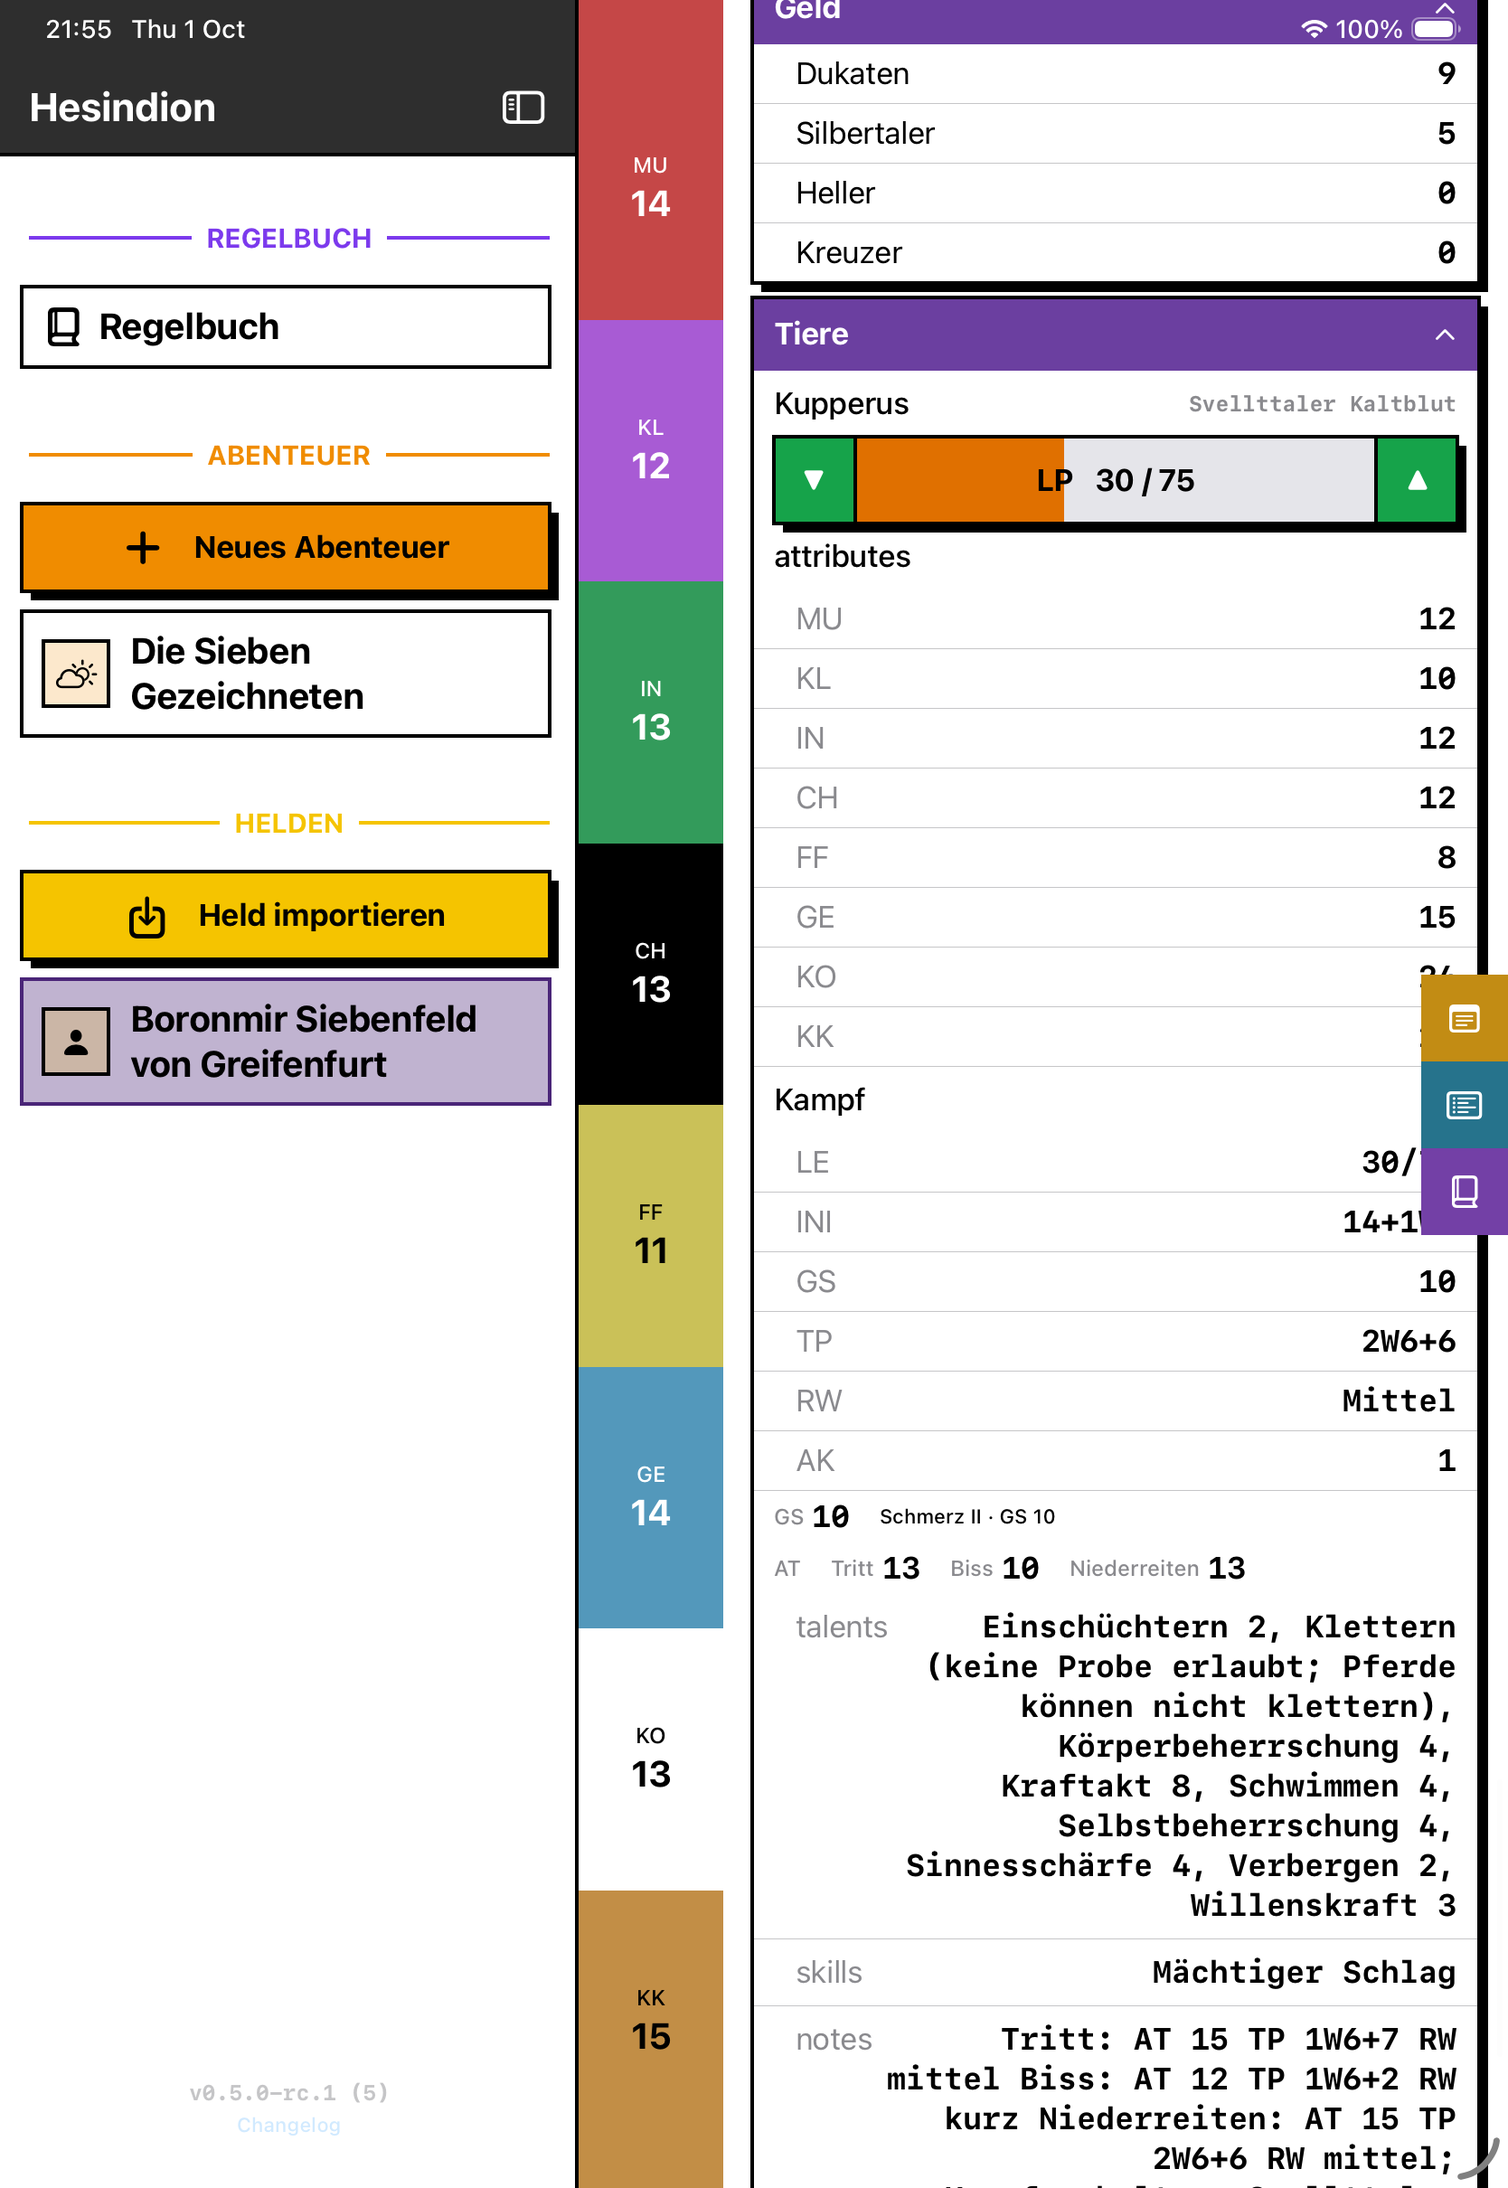
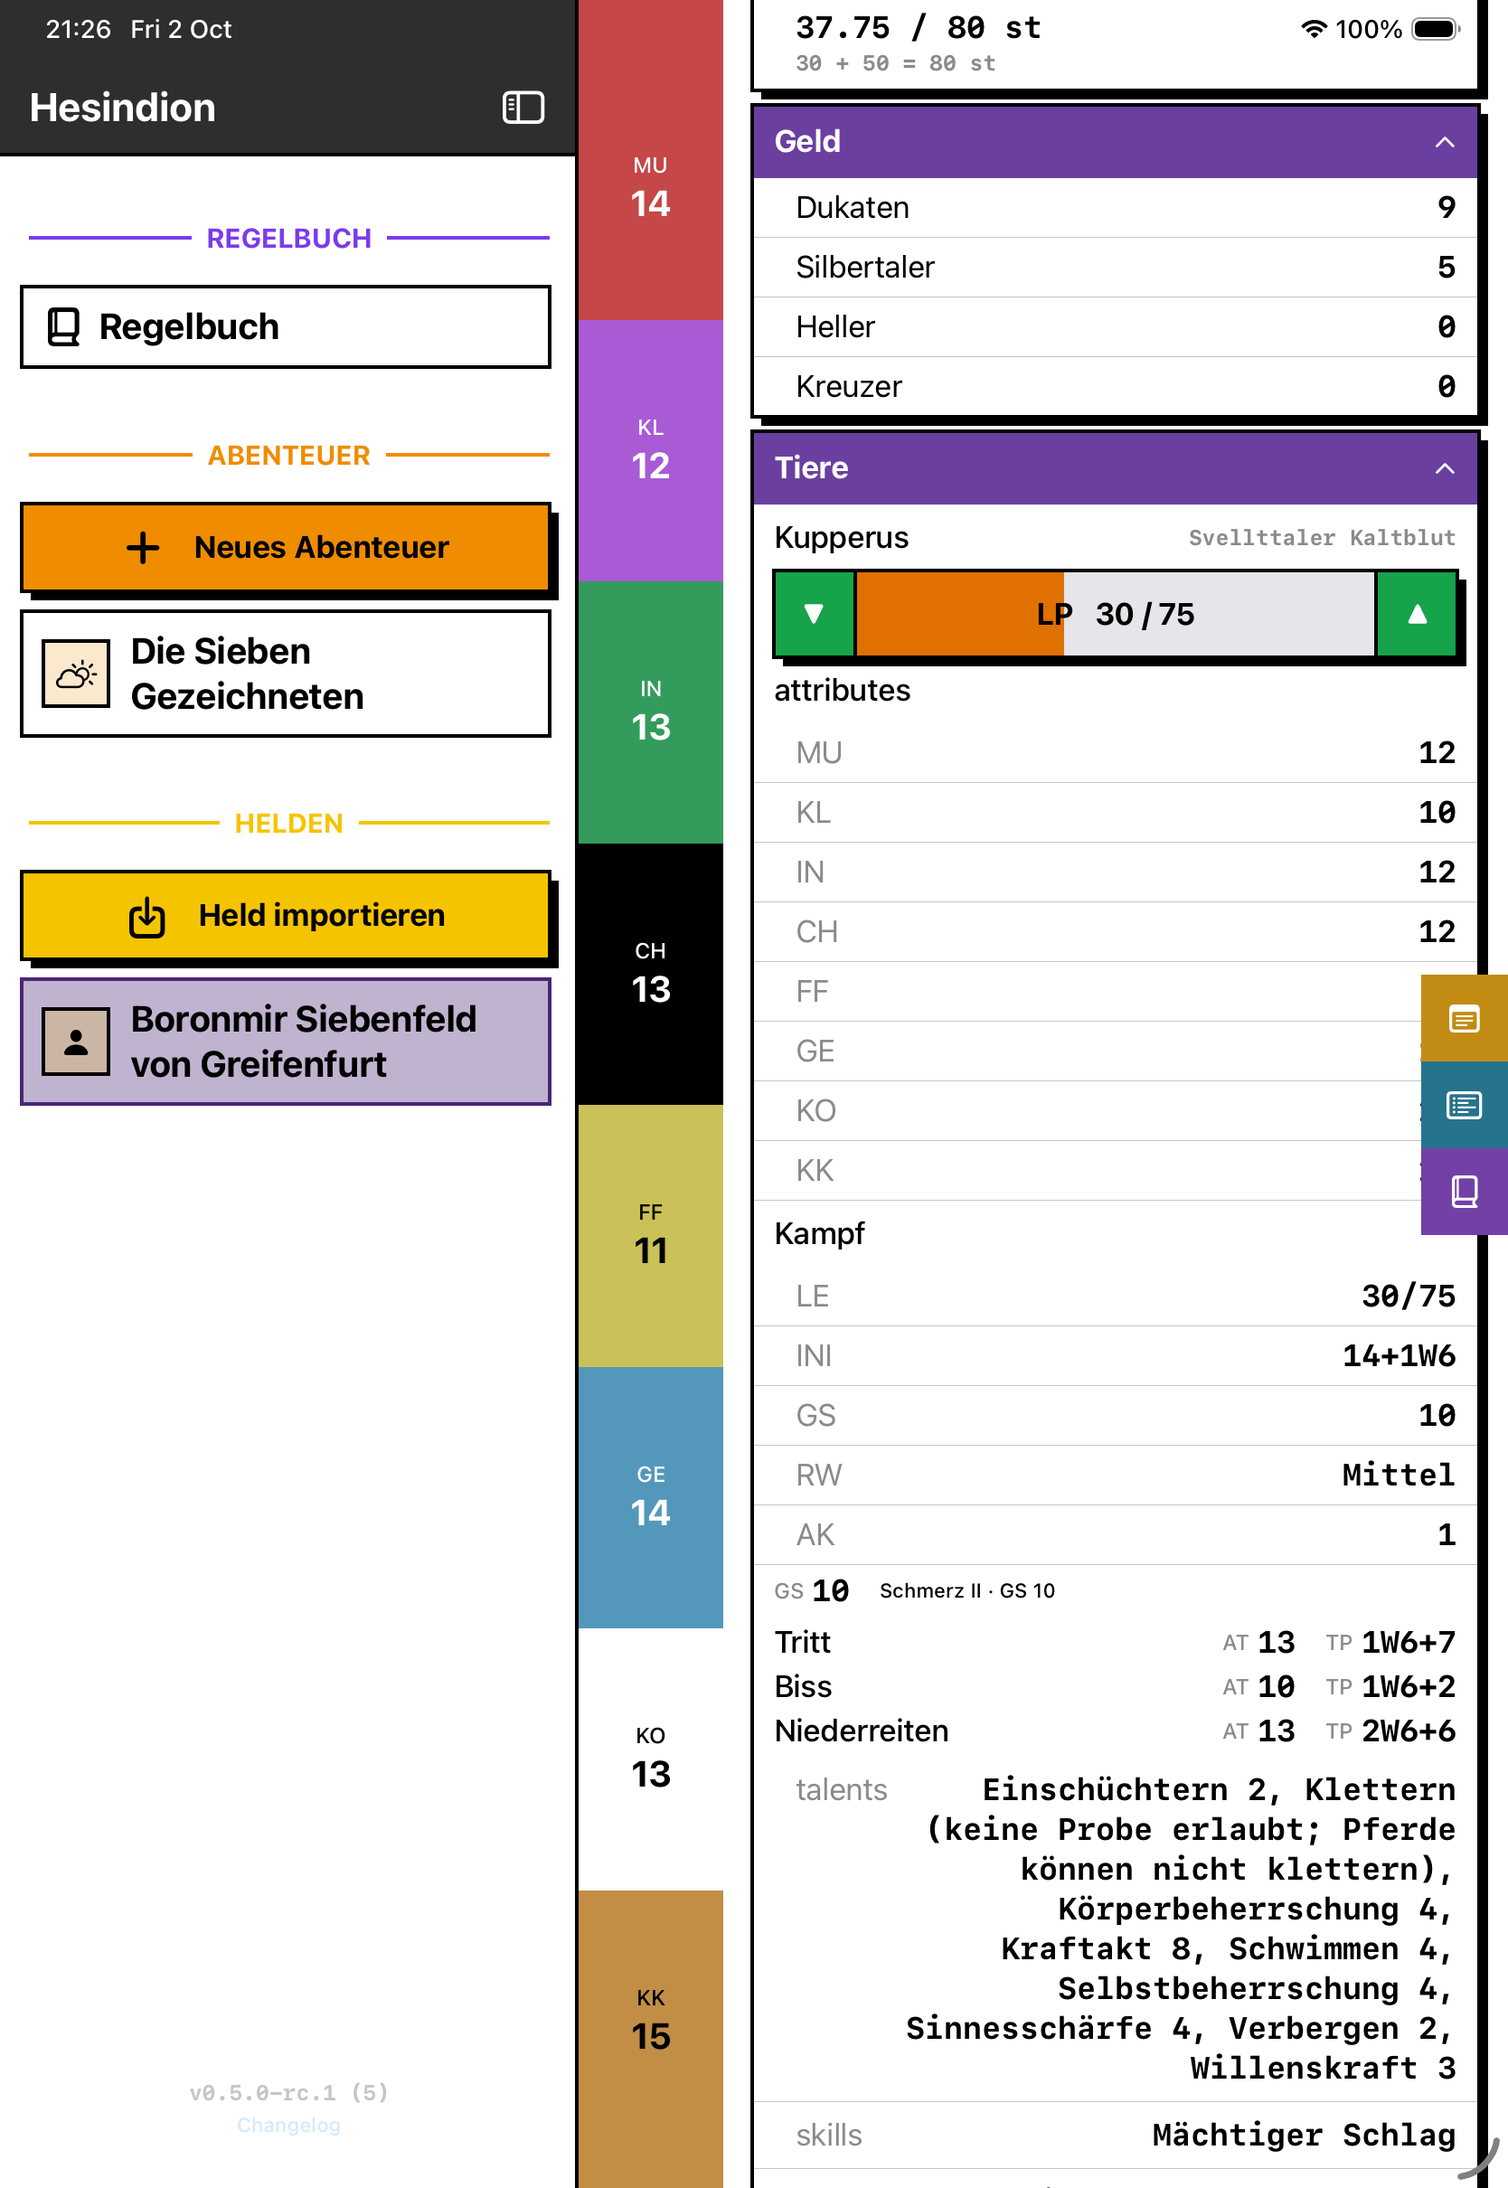
ui: one row per mount attack on the companion sheet, with its AT and TP (#52)
Owner request: see each attack's AT and TP together. The mount's general
"TP" cell goes, as its "AT" cell did.

Claude-Session: https://claude.ai/code/session_01XqN782arHHEks4nWYuMR9X

diff --git a/Hesindion/Views/HeroDetailView.swift b/Hesindion/Views/HeroDetailView.swift
@@ -1205,14 +1205,14 @@ struct HeroDetailView: View {
                         ])
 
                         let mountValues = pet === hero.mount ? MountValues.of(pet) : nil
-                        // Issue #52: the mount's AT is per attack, in its own row below.
+                        // Issue #52: the mount's AT and TP are per attack, one row each below.
                         let atPerAttack = mountValues != nil && !pet.attacks.isEmpty
                         SubfieldBlock(label: L("combat"), subfields: [
                             ("LE", "\(pet.currentLifeEnergy)/\(pet.lifeEnergy)"),
                             ("INI", pet.initiative),
                             ("GS", mountValues?.gs.result.map(String.init) ?? "\(pet.speed)"),
                             atPerAttack ? nil : ("AT", pet.attack),
-                            ("TP", pet.damage),
+                            atPerAttack ? nil : ("TP", pet.damage),
                             ("RW", pet.reach),
                             ("AK", "\(pet.actions)")
                         ].compactMap { $0 })
@@ -1274,23 +1274,31 @@ struct HeroDetailView: View {
         }
     }
 
-    /// The engine's AT for each of the mount's attacks, Schmerz included (issue #52); a tap opens
-    /// its breakdown, as GS and VW do.
+    /// One row per mount attack: its name, the engine's AT, Schmerz included, and its TP (issue #52).
+    /// A tap on the AT opens its breakdown, as GS and VW do.
     private func mountAttacks(_ pet: Pet, values: MountValues) -> some View {
-        HStack(spacing: 16) {
-            Text("AT").font(.dsaBody(.caption)).foregroundStyle(.secondary)
+        VStack(spacing: 4) {
             ForEach(pet.attacks, id: \.name) { attack in
-                if let at = values.at(with: attack.name) {
-                    Button {
-                        breakdown = BreakdownItem(title: "AT \(attack.name) \(pet.name)", value: at)
-                    } label: {
-                        companionValue(attack.name, at.result, id: "pet.at.value.\(pet.name).\(attack.name)")
+                HStack(spacing: 16) {
+                    Text(attack.name).font(.dsaBody(.body))
+                    Spacer()
+                    if let at = values.at(with: attack.name) {
+                        Button {
+                            breakdown = BreakdownItem(title: "AT \(attack.name) \(pet.name)", value: at)
+                        } label: {
+                            companionValue("AT", at.result, id: "pet.at.value.\(pet.name).\(attack.name)")
+                        }
+                        .buttonStyle(.plain)
+                        .accessibilityIdentifier("pet.at.\(pet.name).\(attack.name)")
                     }
-                    .buttonStyle(.plain)
-                    .accessibilityIdentifier("pet.at.\(pet.name).\(attack.name)")
+                    HStack(spacing: 4) {
+                        Text("TP").font(.dsaBody(.caption)).foregroundStyle(.secondary)
+                        Text(attack.damage)
+                            .font(.dsaMono(.body, emphasis: true))
+                            .accessibilityIdentifier("pet.tp.value.\(pet.name).\(attack.name)")
+                    }
                 }
             }
-            Spacer()
         }
         .padding(.horizontal, 12)
         .padding(.vertical, 4)

diff --git a/HesindionUITests/SheetBreakdownTests.swift b/HesindionUITests/SheetBreakdownTests.swift
@@ -189,8 +189,8 @@ final class SheetBreakdownTests: XCTestCase {
         XCTAssertTrue(app.staticTexts["Schmerz Kupperus"].exists, "The breakdown is not the mount's Schmerz")
     }
 
-    /// Issue #52: the companion sheet lists the mount's attacks with the engine's AT. At Schmerz II
-    /// the Tritt is 13, not the export's 15, and a tap opens its breakdown.
+    /// Issue #52: the companion sheet lists the mount's attacks, each with the engine's AT and its TP.
+    /// At Schmerz II the Tritt is 13, not the export's 15, and a tap opens its breakdown.
     @MainActor
     func testTappingTheMountsAttackOnTheSheetOpensItsBreakdown() throws {
         continueAfterFailure = false
@@ -199,6 +199,7 @@ final class SheetBreakdownTests: XCTestCase {
         let tritt = app.buttons["pet.at.Kupperus.Tritt"]
         XCTAssertTrue(app.scrollUntilHittable(tritt), "The mount's Tritt is not on the hero sheet")
         XCTAssertEqual(app.staticTexts["pet.at.value.Kupperus.Tritt"].label, "13", "The AT does not include Schmerz II")
+        XCTAssertEqual(app.staticTexts["pet.tp.value.Kupperus.Tritt"].label, "1W6+7", "The Tritt's TP is not on its row")
         XCTAssertTrue(app.buttons["pet.at.Kupperus.Biss"].exists, "The mount's Biss is not listed")
         captureScreenshot(app, named: "69-mount-attacks-on-sheet")
         tritt.tap()

diff --git a/AGENTS.md b/AGENTS.md
@@ -122,7 +122,7 @@ Two test targets:
 
 The app launches into an empty store, so UI tests use a **debug-only seed**: `UITestSeed` (`Hesindion/UITestSeed.swift`) reacts to the `-uitest-seed-hero` launch argument by wiping a *separate* store file, importing the bundled `Hesindion/Resources/UITestHero.json` (the `specs/heroes` Boronmir export with the base64 avatars stripped — 3.1 MB → 8 KB, since the resource ships in Release builds too), switching the Trefferzonen Fokus-Regel on and leaving a combat session open (so `CombatView` resumes at the combat root). It is guarded twice — `#if DEBUG` and the launch argument — and never touches the store a real user's app writes to. A second argument, `-uitest-fokus <comma-separated raw FokusRule values>`, switches further Fokus-Regeln on for a test that needs them (`UITest.launch(fokusRules:)`). A third, `-uitest-shield` (`UITest.launch(shield:)`), equips the hero's shield: with a shield in the loadout a parry goes through the weapon list rather than straight to the roll, and that is the path the defence tests are about. A further argument, `-uitest-mount-le <n>` (`UITest.launch(mountLE:)`), sets the seeded mount's current LeP (the seeded Kupperus has 75, the export's own value with no `hesindion` block; 5 is Schmerz IV, 30 is Schmerz II, issue #48). UI tests also reuse the existing `DebugLaunch` hooks (`debug load_default path combat`) for navigation.
 
-Elements the UI tests drive carry `.accessibilityIdentifier`s (`heroSettings.fokusRules`, `commandPalette.search`, `combat.zone.<zone>`, `combat.woundEffectPanel`, `combat.woundEffectReminder`, `combat.takeDamage.increaseTP`, `combat.opponent.onFoot` (the announcement's "fights on foot" toggle), `combat.execution.breakdown` (the execution screen's calculation box, which the UI tests scope their row assertions to), `combat.execution.*`, `combat.dealDamage.followUp` (the follow-up card after a hit, issue #41), `skillCheck.target.<0-2>` (a check's Zielwert after every modifier) and `skillCheck.gmBonus` (the GM-decided bonus switch, issue #43), `combat.formation.<formation|plaenkler>` and `combat.formation.<kind>.<at|aw>` (the formation toggles and their bonus, on the preparation screen and in the root's modal), `combat.formation.chip` (the root's Formation chip) and `combat.formation.mountedReason` (why the toggles are off while mounted), issue #44; `combat.action.spentReason` (why the actions are shut after the round's Aktion) and `combat.action.spent.allow`/`.cancel` (the GM question), issue #47; `combat.mount.schmerz` (the root's line under the mount's name, a button that opens the Stufe's breakdown, issue #51) and `combat.mount.blockedReason` (why the mount's actions are shut at Schmerz IV), `pet.gs.<name>` (the companion sheet's tappable mount GS), `pet.at.<name>.<attack>` and `pet.at.value.<name>.<attack>` (each mount attack's tappable AT and its value, issue #52) and `pet.schmerz.<name>` (its status line, which opens the same breakdown), issue #48). Prefer adding an identifier to an existing element over reshaping a view for a test.
+Elements the UI tests drive carry `.accessibilityIdentifier`s (`heroSettings.fokusRules`, `commandPalette.search`, `combat.zone.<zone>`, `combat.woundEffectPanel`, `combat.woundEffectReminder`, `combat.takeDamage.increaseTP`, `combat.opponent.onFoot` (the announcement's "fights on foot" toggle), `combat.execution.breakdown` (the execution screen's calculation box, which the UI tests scope their row assertions to), `combat.execution.*`, `combat.dealDamage.followUp` (the follow-up card after a hit, issue #41), `skillCheck.target.<0-2>` (a check's Zielwert after every modifier) and `skillCheck.gmBonus` (the GM-decided bonus switch, issue #43), `combat.formation.<formation|plaenkler>` and `combat.formation.<kind>.<at|aw>` (the formation toggles and their bonus, on the preparation screen and in the root's modal), `combat.formation.chip` (the root's Formation chip) and `combat.formation.mountedReason` (why the toggles are off while mounted), issue #44; `combat.action.spentReason` (why the actions are shut after the round's Aktion) and `combat.action.spent.allow`/`.cancel` (the GM question), issue #47; `combat.mount.schmerz` (the root's line under the mount's name, a button that opens the Stufe's breakdown, issue #51) and `combat.mount.blockedReason` (why the mount's actions are shut at Schmerz IV), `pet.gs.<name>` (the companion sheet's tappable mount GS), `pet.at.<name>.<attack>` and `pet.at.value.<name>.<attack>` (each mount attack's tappable AT and its value, issue #52), `pet.tp.value.<name>.<attack>` (that attack's TP) and `pet.schmerz.<name>` (its status line, which opens the same breakdown), issue #48). Prefer adding an identifier to an existing element over reshaping a view for a test.
 
 Four known intermittent failures — none of them regressions:
 

diff --git a/CHANGELOG.md b/CHANGELOG.md
@@ -8,7 +8,7 @@ The format is based on [Keep a Changelog](https://keepachangelog.com/en/1.0.0/).
 
 ### Added
 
-- **The companion sheet shows the mount's AT per attack, with its Schmerz** (issue #52). The mount's "AT" cell showed the export's free text ("Niederreiten") and did not change with Schmerz. Now a row lists each attack with the rules engine's AT (`MountValues.at(with:)`), the same value the combat attack picker uses: Kupperus at 30 LeP shows "Tritt 13", not 15. A tap opens the AT's breakdown, as GS and VW already do. Other pets keep their stored values.
+- **The companion sheet shows the mount's AT per attack, with its Schmerz** (issue #52). The mount's "AT" cell showed the export's free text ("Niederreiten") and did not change with Schmerz. Now the sheet shows one row per attack, with the rules engine's AT (`MountValues.at(with:)`) and the attack's own TP. The AT is the same value the combat attack picker uses: Kupperus at 30 LeP shows "Tritt AT 13 TP 1W6+7", not AT 15. The general "AT" and "TP" cells are gone for the mount. A tap opens the AT's breakdown, as GS and VW already do. Other pets keep their stored values.
 - **A tap on the mount's Schmerz shows how its Stufe comes about** (issue #51). The line under the mount's name at the combat root and the status line on the companion sheet open the `level(rule: COND_6)` breakdown: a sentence with the mount's LeP and how the thresholds count, then one line per threshold ("Schwelle I: LeP ≤ 89 – erreicht", scaled to the mount's max LeP), Zähes Tier's line ("Stufe II wirkt wie I") and the result as a Stufe ("Stufe I (hat II)"). The companion sheet's status line opened the GS breakdown before. A mount whose breed has no rule has no breakdown, and its line is not tappable.
 - **Every breakdown reads more plainly** (issue #51). The engine puts the threshold on a 0-or-1 step line (`Line.threshold`), and `BreakdownText` words it. The current LeP shows as "LeP", not `hero.leCurrent`; the `subject` gate fact and the owner "abgeleitet" are hidden; an Auslegung mark shows "Auslegung ▸" and opens to the ruling's answer, not its id. A row shows only the rule's name, and only when the row above has another; a fact or an Auslegung mark the row above showed is not repeated. The clause and ruling ids move to a "Mehr Infos" fold under "Nicht angewandt". The answer of the ruling `svellttaler-schmerz-thresholds` is reworded to say how the thresholds scale.
 - **A mount in pain loses speed and cannot act at Schmerz IV, from the rules engine** (issue #48, ADR-0020). A creature is now evaluated as a subject of its own (`CreatureSheet`, `Situation(creature:)`), with the breed's own Schmerz thresholds (Svellttaler Kaltblut, Elenviner Vollblut) and Zähes Tier; the hero's situation reads the mount's GS, Schmerz Stufe and Handlungsunfähig from it. The combat root names the mount's Schmerz Stufe and GS, the mount's AT and the Sturmangriff zu Pferd TP line (RK14: 2 + ½ GS) follow the current GS, and at Schmerz IV the mount's attacks, Niederreiten and Sturmangriff are shut with the reason on screen. The companion sheet's GS, VW and status open their breakdowns. A mount whose breed has no rule shows "Schwellen unbekannt" instead of a Stufe.

diff --git a/docs/plans/2026-10-01-mount-schmerz-design.md b/docs/plans/2026-10-01-mount-schmerz-design.md
@@ -140,9 +140,10 @@ without a breed rule (Stufe 0, no question); an RK14 case with a mount at Schmer
 7. **A mount without a breed rule.** The app uses the base GS and AT and shows the rule as not
    applied: "Schmerz Kupperus: Schwellen unbekannt (kein Bestiarium-Eintrag)".
 8. **Companion sheet** (`HeroDetailView`): GS, VW and the AT of each attack show the engine's results;
-   a tap opens the breakdown. The status line opens the Stufe's breakdown, as at the combat root (issue #51). Since issue #52 the sheet lists the mount's attacks (`Pet.attacks`) with the engine's AT for each,
-   in place of the export's free-text `pet.attack`, and a tap opens its breakdown. A pet that is not
-   the mount, or a mount with no parsed attacks, keeps the free-text "AT".
+   a tap opens the breakdown. The status line opens the Stufe's breakdown, as at the combat root (issue #51). Since issue #52 the sheet lists the mount's attacks (`Pet.attacks`), one row each with the engine's
+   AT and the attack's TP, in place of the export's free-text `pet.attack` and `pet.damage`; a tap on
+   the AT opens its breakdown. A pet that is not the mount, or a mount with no parsed attacks, keeps
+   the free-text "AT" and "TP".
 9. `FactLabel` gets labels for the three facts. They name the role ("GS Reittier", "Schmerz Reittier", "Reittier handlungsunfähig"), since `FactLabel` has no mount name.
 
 ## 7. Tests
